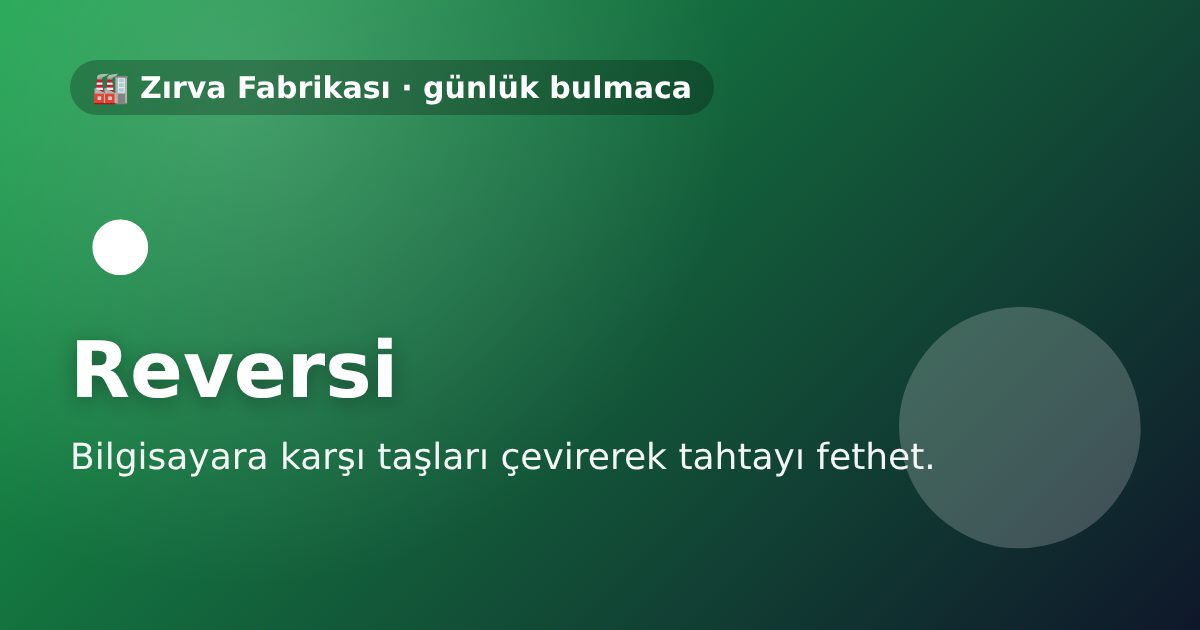
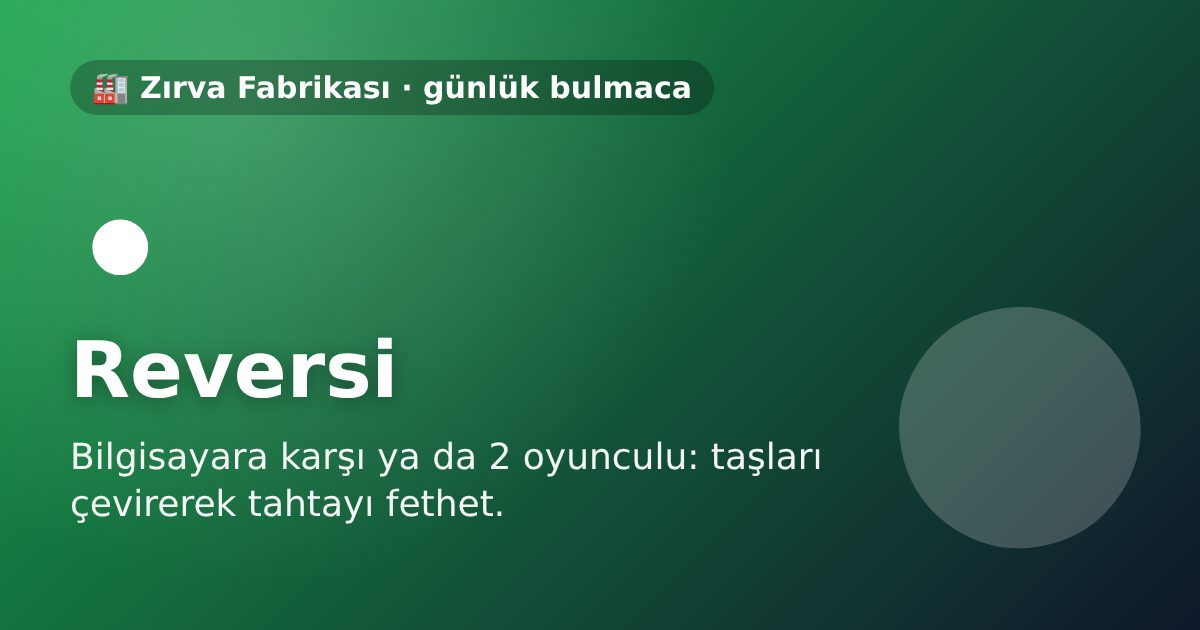
v6.5: Noktaci, Uzay Savunmasi, 2 oyunculu Dort Gelsin ve Reversi, arka plan muzigi
Claude-Session: https://claude.ai/code/session_015mUfjF34r2QB4MxpZHN5sk

Changed region(s): [[0.3083, 0.6937, 0.7708, 0.754], [0.0617, 0.7841, 0.4317, 0.8444]]

diff --git a/static/puzzles7.js b/static/puzzles7.js
@@ -1,0 +1,59 @@
+/* Zırva Bulmaca v6.5: Noktacı (Pac-Man tarzı), Uzay Savunması (Space Invaders tarzı) */
+(function () {
+/* ===== Noktacı ===== */
+const MAZE = ["###############", "#o.....#.....o#", "#.##.#.#.#.##.#", "#.............#", "#.##.#####.##.#", "#....#...#....#", "#.##.#.#.#.##.#", "#.............#", "#.##.#####.##.#", "#....#...#....#", "#.##.#.#.#.##.#", "#o.....P.....o#", "###############"];
+function gNoktaci(root, ctx, A) {
+  const { el, sfx, showResult, shareHead, shareTail, fmtTime } = A; const H = MAZE.length, W = MAZE[0].length, S = 28; const cv = el("canvas", "pm-cv"); cv.width = W * S; cv.height = H * S; const info = el("div", "ka-info"), pad = el("div", "tt-pad"); root.append(info, cv, pad); const x = cv.getContext("2d");
+  const g = MAZE.map(r => r.split("").map(c => c === "#" ? 1 : c === "." ? 2 : c === "o" ? 3 : 0)); let dots = g.flat().filter(v => v >= 2).length; const total = dots;
+  const mk = (r, c, color) => ({ r, c, pr: r, pc: c, t0: performance.now(), d: [0, 0], color, fr: 0, home: [r, c] });
+  const pl = mk(11, 7, "#facc15"), gh = [mk(5, 6, "#ef4444"), mk(5, 7, "#f472b6"), mk(5, 8, "#22d3ee")]; let want = [0, 0], lives = 3, score = 0, over = false, secs = 0, power = 0, inv = 0; const PT = 150;
+  const open = (r, c) => g[r] && g[r][c] !== 1 && g[r][c] !== undefined; const DIRS = [[0, 1], [0, -1], [1, 0], [-1, 0]];
+  const mv = (e, d) => { e.pr = e.r; e.pc = e.c; e.r += d[0]; e.c += d[1]; e.t0 = performance.now(); };
+  function stepPl() { if (over) return; if (want[0] || want[1]) { if (open(pl.r + want[0], pl.c + want[1])) pl.d = want; } if ((pl.d[0] || pl.d[1]) && open(pl.r + pl.d[0], pl.c + pl.d[1])) mv(pl, pl.d); else { pl.pr = pl.r; pl.pc = pl.c; }
+    const v = g[pl.r][pl.c]; if (v >= 2) { g[pl.r][pl.c] = 0; dots--; score += v === 3 ? 50 : 10; if (v === 3) { power = 7000; gh.forEach(e => e.fr = 1); sfx("good"); } else sfx("tap"); if (!dots) return end(true); } collide(); }
+  function stepGh(e) { if (over) return; const opts = DIRS.filter(d => open(e.r + d[0], e.c + d[1]) && !(d[0] === -e.d[0] && d[1] === -e.d[1])); const all = opts.length ? opts : DIRS.filter(d => open(e.r + d[0], e.c + d[1])); let d;
+    if (e.fr) d = all.slice().sort((a, b) => dist(e, b) - dist(e, a))[ctx.rnd() < .6 ? 0 : Math.floor(ctx.rnd() * all.length)]; else d = ctx.rnd() < .62 ? all.slice().sort((a, b) => dist(e, a) - dist(e, b))[0] : all[Math.floor(ctx.rnd() * all.length)]; e.d = d; mv(e, d); collide(); }
+  const dist = (e, d) => Math.abs(e.r + d[0] - pl.r) + Math.abs(e.c + d[1] - pl.c);
+  function collide() { gh.forEach(e => { if (e.r === pl.r && e.c === pl.c || (e.pr === pl.r && e.pc === pl.c && e.r === pl.pr && e.c === pl.pc)) { if (e.fr) { score += 200; sfx("good"); e.r = e.pr = 5; e.c = e.pc = 7; e.fr = 0; e.d = [0, 0]; } else if (!inv) { lives--; sfx("bad"); inv = 1800; if (lives <= 0) return end(false); pl.r = pl.pr = 11; pl.c = pl.pc = 7; pl.d = [0, 0]; want = [0, 0]; gh.forEach((q, i) => { q.r = q.pr = 5; q.c = q.pc = 6 + i; q.d = [0, 0]; }); } } }); }
+  const draw = now => { x.fillStyle = "#050816"; x.fillRect(0, 0, W * S, H * S); for (let r = 0; r < H; r++) for (let c = 0; c < W; c++) { const v = g[r][c]; if (v === 1) { x.fillStyle = "#1e3a8a"; x.beginPath(); x.roundRect(c * S + 2, r * S + 2, S - 4, S - 4, 6); x.fill(); x.fillStyle = "#3b82f6"; x.fillRect(c * S + 6, r * S + 6, S - 12, S - 12); } else if (v === 2) { x.fillStyle = "#fde68a"; x.beginPath(); x.arc(c * S + S / 2, r * S + S / 2, 3, 0, 7); x.fill(); } else if (v === 3) { x.fillStyle = "#fff"; x.beginPath(); x.arc(c * S + S / 2, r * S + S / 2, 7 + Math.sin(now / 150) * 1.5, 0, 7); x.fill(); } }
+    x.font = (S - 4) + "px serif"; x.textAlign = "center"; x.textBaseline = "middle"; const P = (e, per) => { const f = Math.min(1, (now - e.t0) / per); return [(e.pc + (e.c - e.pc) * f) * S + S / 2, (e.pr + (e.r - e.pr) * f) * S + S / 2]; };
+    gh.forEach(e => { const p = P(e, e.fr ? 280 : 210); x.globalAlpha = e.fr && power < 2000 && Math.floor(now / 150) % 2 ? .4 : 1; x.fillText(e.fr ? "😱" : "👻", p[0], p[1]); x.globalAlpha = 1; });
+    if (!inv || Math.floor(now / 120) % 2) { const p = P(pl, PT); x.fillText("🟡", p[0], p[1]); }
+    info.innerHTML = `<span>❤ ${lives}</span><span>Puan: ${score}</span><span>Kalan: ${dots}</span><span>⏱ ${fmtTime(Math.round(secs))}</span>`; };
+  let last = performance.now(), ap = 0, ag = 0, raf; const loop = now => { if (over) return; const dt = Math.min(80, now - last); last = now; secs += dt / 1000; inv = Math.max(0, inv - dt); if (power > 0) { power -= dt; if (power <= 0) gh.forEach(e => e.fr = 0); } ap += dt; ag += dt; while (ap >= PT) { ap -= PT; stepPl(); } const gp = power > 0 ? 260 : 200; while (ag >= gp) { ag -= gp; gh.forEach(stepGh); } draw(now); raf = requestAnimationFrame(loop); }; raf = requestAnimationFrame(loop);
+  const KM = { ArrowUp: [-1, 0], ArrowDown: [1, 0], ArrowLeft: [0, -1], ArrowRight: [0, 1], w: [-1, 0], s: [1, 0], a: [0, -1], d: [0, 1] }; const kd = e => { const k = KM[e.key.length === 1 ? e.key.toLowerCase() : e.key]; if (k) { e.preventDefault(); want = k; } }; document.addEventListener("keydown", kd);
+  [["◀", [0, -1]], ["▲", [-1, 0]], ["▼", [1, 0]], ["▶", [0, 1]]].forEach(([t, d]) => { const b = el("button", "btn tt-b", t); b.onpointerdown = e => { e.preventDefault(); want = d; }; pad.appendChild(b); });
+  let sx, sy; cv.style.touchAction = "none"; cv.addEventListener("pointerdown", e => { sx = e.clientX; sy = e.clientY; }); cv.addEventListener("pointerup", e => { if (sx == null) return; const dx = e.clientX - sx, dy = e.clientY - sy; sx = null; if (Math.max(Math.abs(dx), Math.abs(dy)) < 16) return; want = Math.abs(dx) > Math.abs(dy) ? [0, Math.sign(dx)] : [Math.sign(dy), 0]; });
+  ctx.cleanup = () => { cancelAnimationFrame(raf); document.removeEventListener("keydown", kd); };
+  function end(win) { if (over) return; over = true; const stars = win ? (lives === 3 && secs < 110 ? 5 : lives >= 2 ? 4 : 3) : dots < total / 2 ? 2 : 1; showResult(ctx, { win, stars, title: win ? "Tüm noktalar yendi!" : "Hayaletler yakaladı", text: `${total - dots}/${total} nokta, ${score} puan.`, share: `${shareHead(ctx, win ? fmtTime(Math.round(secs)) : (total - dots) + "/" + total)}\n🟡 Noktacı · ${score} puan${shareTail(ctx)}` }); }
+  ctx.auto = () => { dots = 0; end(true); };
+}
+
+/* ===== Uzay Savunması ===== */
+function gUzay(root, ctx, A) {
+  const { el, ri, sfx, showResult, shareHead, shareTail } = A; const W = 360, Ht = 460; const cv = el("canvas", "sp-cv"); cv.width = W; cv.height = Ht; const info = el("div", "ka-info"), pad = el("div", "tt-pad"); root.append(info, cv, pad); const x = cv.getContext("2d");
+  let inv = []; for (let r = 0; r < 5; r++) for (let c = 0; c < 8; c++) inv.push({ r, c, x: 30 + c * 38, y: 50 + r * 32, alive: true }); let dir = 1, speed = .35, drop = 0;
+  let sh = []; for (let b = 0; b < 3; b++) for (let i = 0; i < 6; i++) for (let j = 0; j < 4; j++) sh.push({ x: 40 + b * 110 + i * 8, y: 360 + j * 8, hp: 2 });
+  let px = W / 2, lives = 3, score = 0, bullets = [], ebul = [], over = false, cd = 0, ecd = 900, left = false, right = false, fire = false, flash = 0; const EM = ["👽", "👾", "👾", "🛸", "🛸"];
+  function step(dt) { if (over) return; cd -= dt; ecd -= dt; flash = Math.max(0, flash - dt); if (left) px -= .3 * dt; if (right) px += .3 * dt; px = Math.max(18, Math.min(W - 18, px)); if (fire && cd <= 0) { bullets.push({ x: px, y: Ht - 50 }); cd = 380; sfx("tap"); }
+    const alive = inv.filter(i => i.alive); const sp = speed * (1 + (40 - alive.length) / 14); let edge = false; alive.forEach(i => { i.x += dir * sp * dt / 16; if (i.x < 14 || i.x > W - 14) edge = true; }); if (edge) { dir = -dir; alive.forEach(i => { i.y += 14; i.x += dir * 3; }); }
+    if (ecd <= 0 && alive.length) { ecd = 600 + ctx.rnd() * 700; const cols = {}; alive.forEach(i => { if (!cols[i.c] || i.y > cols[i.c].y) cols[i.c] = i; }); const ks = Object.values(cols); const s = ks[Math.floor(ctx.rnd() * ks.length)]; ebul.push({ x: s.x, y: s.y + 10 }); }
+    bullets.forEach(b => b.y -= .5 * dt); ebul.forEach(b => b.y += .22 * dt); const hitSh = (b, o) => { const k = sh.find(s => s.hp > 0 && b.x > s.x - 1 && b.x < s.x + 9 && b.y > s.y - 1 && b.y < s.y + 9); if (k) { k.hp--; return true; } return false; };
+    bullets = bullets.filter(b => { if (b.y < 0 || hitSh(b)) return false; const t = alive.find(i => i.alive && Math.abs(i.x - b.x) < 14 && Math.abs(i.y - b.y) < 12); if (t) { t.alive = false; score += 10 * (5 - t.r); sfx("good"); return false; } return true; });
+    ebul = ebul.filter(b => { if (b.y > Ht || hitSh(b)) return false; if (Math.abs(b.x - px) < 16 && b.y > Ht - 42 && b.y < Ht - 14) { lives--; flash = 400; sfx("bad"); if (lives <= 0) end(false); return false; } return true; });
+    if (!inv.some(i => i.alive)) return end(true); if (inv.some(i => i.alive && i.y > Ht - 80)) return end(false); draw(); }
+  function draw() { x.fillStyle = "#050816"; x.fillRect(0, 0, W, Ht); for (let i = 0; i < 30; i++) { x.fillStyle = "#ffffff55"; x.fillRect((i * 97) % W, (i * 53 + Date.now() / 40) % Ht, 1.5, 1.5); } x.font = "22px serif"; x.textAlign = "center"; x.textBaseline = "middle";
+    sh.forEach(s => { if (s.hp > 0) { x.fillStyle = s.hp > 1 ? "#34d399" : "#15803d"; x.fillRect(s.x, s.y, 8, 8); } }); inv.forEach(i => i.alive && x.fillText(EM[i.r], i.x, i.y));
+    bullets.forEach(b => { x.fillStyle = "#fde047"; x.fillRect(b.x - 1.5, b.y - 8, 3, 10); }); ebul.forEach(b => { x.fillStyle = "#f87171"; x.fillRect(b.x - 2, b.y, 4, 10); });
+    x.globalAlpha = flash ? .4 : 1; x.font = "30px serif"; x.fillText("🚀", px, Ht - 28); x.globalAlpha = 1;
+    info.innerHTML = `<span>❤ ${lives}</span><span>Puan: ${score}</span><span>👾 ${inv.filter(i => i.alive).length}</span>`; }
+  const bind = (b, on, off) => { b.onpointerdown = e => { e.preventDefault(); on(); }; ["pointerup", "pointerleave", "pointercancel"].forEach(ev => b.addEventListener(ev, off)); };
+  const bl = el("button", "btn tt-b", "◀"), bf = el("button", "btn tt-b", "🔫 Ateş"), br = el("button", "btn tt-b", "▶"); bind(bl, () => left = true, () => left = false); bind(br, () => right = true, () => right = false); bind(bf, () => fire = true, () => fire = false); pad.append(bl, bf, br);
+  const kd = e => { if (e.key === "ArrowLeft" || e.key === "a") { left = true; e.preventDefault(); } else if (e.key === "ArrowRight" || e.key === "d") { right = true; e.preventDefault(); } else if (e.key === " ") { fire = true; e.preventDefault(); } }, ku = e => { if (e.key === "ArrowLeft" || e.key === "a") left = false; else if (e.key === "ArrowRight" || e.key === "d") right = false; else if (e.key === " ") fire = false; };
+  document.addEventListener("keydown", kd); document.addEventListener("keyup", ku); cv.style.touchAction = "none"; const mp = e => { const r = cv.getBoundingClientRect(); px = (e.clientX - r.left) * W / r.width; }; cv.addEventListener("pointermove", e => { if (e.buttons || e.pointerType === "touch") mp(e); }); cv.addEventListener("pointerdown", e => { mp(e); fire = true; }); ["pointerup", "pointerleave"].forEach(ev => cv.addEventListener(ev, () => fire = false));
+  let last = performance.now(), raf; const loop = now => { if (over) return; step(Math.min(50, now - last)); last = now; raf = requestAnimationFrame(loop); }; raf = requestAnimationFrame(loop); ctx.cleanup = () => { cancelAnimationFrame(raf); document.removeEventListener("keydown", kd); document.removeEventListener("keyup", ku); };
+  function end(win) { if (over) return; over = true; draw(); const stars = win ? (lives === 3 ? 5 : lives === 2 ? 4 : 3) : inv.filter(i => !i.alive).length >= 25 ? 2 : 1; showResult(ctx, { win, stars, title: win ? "Dünya kurtuldu!" : "İstila başarılı…", text: `${inv.filter(i => !i.alive).length}/40 istilacı vuruldu, ${score} puan.`, share: `${shareHead(ctx, win ? score + " puan" : "kaybetti")}\n🚀 Uzay Savunması${shareTail(ctx)}` }); }
+  ctx.auto = () => { inv.forEach(i => i.alive = false); end(true); }; draw();
+}
+window.PZX = Object.assign(window.PZX || {}, { noktaci: gNoktaci, uzay: gUzay });
+})();

diff --git a/static/puzzles4.js b/static/puzzles4.js
@@ -119,6 +119,10 @@ function gFlood(root, ctx, A) {
 
 /* ===== Dört Gelsin (Connect 4, bilgisayara karşı) ===== */
 function gDort(root, ctx, A) {
+  window.PZ_DATA.chooser(root, A, "Dört Gelsin modu", [["1", "🤖 Bilgisayara karşı", "Tek kişilik"], ["2", "👥 2 Oyuncu", "Aynı cihazda sırayla"]], m => dortRun(root, ctx, A, m === "2"));
+  ctx.auto = () => { if (!ctx.__a) dortRun(root, ctx, A, false); ctx.__a(); };
+}
+function dortRun(root, ctx, A, two) {
   const { el, sfx, showResult, shareHead, shareTail, sleep } = A; const R = 6, C = 7; let b = Array(R * C).fill(0), turn = 1, over = false, moves = 0, busy = false;
   const info = el("div", "ka-info"), board = el("div", "c4-grid"); root.append(info, board);
   const LINES = []; for (let r = 0; r < R; r++) for (let c = 0; c < C; c++) [[0, 1], [1, 0], [1, 1], [1, -1]].forEach(([dr, dc]) => { const e = []; for (let k = 0; k < 4; k++) { const y = r + dr * k, x = c + dc * k; if (y < 0 || y >= R || x < 0 || x >= C) return; e.push(y * C + x); } LINES.push(e); });
@@ -126,11 +130,11 @@ function gDort(root, ctx, A) {
   const score = bd => { let s = 0; LINES.forEach(l => { const a = l.filter(i => bd[i] === 2).length, h = l.filter(i => bd[i] === 1).length; if (a && h) return; if (a) s += [0, 1, 4, 30, 1000][a]; if (h) s -= [0, 1, 5, 40, 1000][h]; }); for (let r = 0; r < R; r++) if (bd[r * C + 3] === 2) s += 3; return s; };
   function mm(bd, d, al, be, mx) { if (win(bd, 2)) return 100000 + d; if (win(bd, 1)) return -100000 - d; if (!d || bd.every(Boolean)) return score(bd); let best = mx ? -1e9 : 1e9; for (const c of [3, 2, 4, 1, 5, 0, 6]) { const i = drop(bd, c); if (i < 0) continue; bd[i] = mx ? 2 : 1; const v = mm(bd, d - 1, al, be, !mx); bd[i] = 0; if (mx) { best = Math.max(best, v); al = Math.max(al, v); } else { best = Math.min(best, v); be = Math.min(be, v); } if (be <= al) break; } return best; }
   function ai() { let bc = [], bv = -1e9; for (const c of [0, 1, 2, 3, 4, 5, 6]) { const i = drop(b, c); if (i < 0) continue; b[i] = 2; const v = mm(b, 3, -1e9, 1e9, false); b[i] = 0; if (v > bv) { bv = v; bc = [c]; } else if (v === bv) bc.push(c); } if (ctx.rnd() < .12) { const ok = [0, 1, 2, 3, 4, 5, 6].filter(c => drop(b, c) >= 0); return ok[Math.floor(ctx.rnd() * ok.length)]; } return bc[Math.floor(ctx.rnd() * bc.length)]; }
-  function paint(wl) { info.innerHTML = `<span>🔴 Sen · 🟡 Bilgisayar</span><span>Hamle: ${moves}</span>`; board.innerHTML = ""; for (let c = 0; c < C; c++) { const col = el("button", "c4-col"); for (let r = 0; r < R; r++) { const v = b[r * C + c]; col.appendChild(el("div", "c4-d" + (v === 1 ? " p" : v === 2 ? " a" : "") + (wl && wl.includes(r * C + c) ? " w" : ""))); } col.onclick = () => play(c); board.appendChild(col); } }
-  async function play(c) { if (over || busy || turn !== 1) return; const i = drop(b, c); if (i < 0) return; busy = true; b[i] = 1; moves++; sfx("tap"); let w = win(b, 1); paint(w); if (w) return end(1, w); if (b.every(Boolean)) return end(0);
+  function paint(wl) { info.innerHTML = two ? `<span>Sıra: ${turn === 1 ? "🔴 Kırmızı" : "🟡 Sarı"}</span><span>Hamle: ${moves}</span>` : `<span>🔴 Sen · 🟡 Bilgisayar</span><span>Hamle: ${moves}</span>`; board.innerHTML = ""; for (let c = 0; c < C; c++) { const col = el("button", "c4-col"); for (let r = 0; r < R; r++) { const v = b[r * C + c]; col.appendChild(el("div", "c4-d" + (v === 1 ? " p" : v === 2 ? " a" : "") + (wl && wl.includes(r * C + c) ? " w" : ""))); } col.onclick = () => play(c); board.appendChild(col); } }
+  async function play(c) { if (over || busy || (!two && turn !== 1)) return; const i = drop(b, c); if (i < 0) return; busy = true; const me = turn; b[i] = me; moves++; sfx("tap"); let w = win(b, me); paint(w); if (w) return end(me, w); if (b.every(Boolean)) return end(0); if (two) { turn = 3 - me; busy = false; paint(); return; }
     turn = 2; await sleep(450); const ac = ai(); b[drop(b, ac)] = 2; w = win(b, 2); sfx("tap"); paint(w); if (w) return end(2, w); if (b.every(Boolean)) return end(0); turn = 1; busy = false; }
-  function end(r, w) { over = true; const stars = r === 1 ? (moves <= 12 ? 5 : moves <= 16 ? 4 : 3) : r === 0 ? 2 : 1; showResult(ctx, { win: r === 1, stars, title: r === 1 ? "Dördü sen yaptın!" : r === 0 ? "Berabere" : "Bilgisayar kazandı", text: `${moves} hamle oynadın.`, share: `${shareHead(ctx, r === 1 ? "kazandı" : r === 0 ? "berabere" : "kaybetti")}\n🔴🟡 Dört Gelsin${shareTail(ctx)}` }); }
-  ctx.auto = () => end(1); paint();
+  function end(r, w) { over = true; if (two) { showResult(ctx, { win: true, stars: 3, title: r === 0 ? "Berabere" : r === 1 ? "🔴 Kırmızı kazandı!" : "🟡 Sarı kazandı!", text: `${moves} hamlede bitti.`, share: `${shareHead(ctx, r === 1 ? "Kırmızı" : r === 2 ? "Sarı" : "berabere")}\n🔴🟡 Dört Gelsin 2 Oyuncu${shareTail(ctx)}` }); return; } const stars = r === 1 ? (moves <= 12 ? 5 : moves <= 16 ? 4 : 3) : r === 0 ? 2 : 1; showResult(ctx, { win: r === 1, stars, title: r === 1 ? "Dördü sen yaptın!" : r === 0 ? "Berabere" : "Bilgisayar kazandı", text: `${moves} hamle oynadın.`, share: `${shareHead(ctx, r === 1 ? "kazandı" : r === 0 ? "berabere" : "kaybetti")}\n🔴🟡 Dört Gelsin${shareTail(ctx)}` }); }
+  ctx.__a = () => end(1); paint();
 }
 
 /* ===== Köstebek Avı ===== */

diff --git a/static/puzzles5.js b/static/puzzles5.js
@@ -81,18 +81,22 @@ function gLabirent(root, ctx, A) {
 
 /* ===== Reversi (bilgisayara karşı) ===== */
 function gReversi(root, ctx, A) {
+  CH()(root, A, "Reversi modu", [["1", "🤖 Bilgisayara karşı", "Tek kişilik"], ["2", "👥 2 Oyuncu", "Aynı cihazda sırayla"]], m => reversiRun(root, ctx, A, m === "2"));
+  ctx.auto = () => { if (!ctx.__a) reversiRun(root, ctx, A, false); ctx.__a(); };
+}
+function reversiRun(root, ctx, A, two) {
   const { el, sfx, showResult, shareHead, shareTail, sleep } = A; const N = 8; let b = Array(64).fill(0); b[27] = b[36] = 2; b[28] = b[35] = 1; let turn = 1, over = false, busy = false;
   const info = el("div", "ka-info"), board = el("div", "rv-grid"); root.append(info, board); const D = [[-1, -1], [-1, 0], [-1, 1], [0, -1], [0, 1], [1, -1], [1, 0], [1, 1]];
   const flips = (bd, i, p) => { const r = Math.floor(i / N), c = i % N, o = []; if (bd[i]) return o; D.forEach(([a, d]) => { const t = []; let y = r + a, x = c + d; while (y >= 0 && y < N && x >= 0 && x < N && bd[y * N + x] === 3 - p) { t.push(y * N + x); y += a; x += d; } if (t.length && y >= 0 && y < N && x >= 0 && x < N && bd[y * N + x] === p) o.push(...t); }); return o; };
   const moves = (bd, p) => { const o = []; for (let i = 0; i < 64; i++) { const f = flips(bd, i, p); if (f.length) o.push([i, f]); } return o; };
   const W = i => { const r = Math.floor(i / N), c = i % N; const e = k => k === 0 || k === 7, n = k => k === 1 || k === 6; if (e(r) && e(c)) return 25; if ((n(r) && e(c)) || (e(r) && n(c))) return -8; if (n(r) && n(c)) return -12; if (e(r) || e(c)) return 4; return 1; };
   const cnt = p => b.filter(v => v === p).length;
-  function paint() { const mv = turn === 1 && !busy ? moves(b, 1).map(x => x[0]) : []; info.innerHTML = `<span>⚫ Sen: <b>${cnt(1)}</b></span><span>⚪ Bilgisayar: <b>${cnt(2)}</b></span>`; board.innerHTML = ""; b.forEach((v, i) => { const c = el("button", "rv-c"); if (v) c.appendChild(el("div", "rv-d " + (v === 1 ? "bk" : "wh"))); else if (mv.includes(i)) c.appendChild(el("div", "rv-h")); c.onclick = () => play(i); board.appendChild(c); }); }
+  function paint() { const mv = (two || turn === 1) && !busy ? moves(b, turn).map(x => x[0]) : []; info.innerHTML = two ? `<span>⚫ Siyah: <b>${cnt(1)}</b></span><span>Sıra: ${turn === 1 ? "⚫" : "⚪"}</span><span>⚪ Beyaz: <b>${cnt(2)}</b></span>` : `<span>⚫ Sen: <b>${cnt(1)}</b></span><span>⚪ Bilgisayar: <b>${cnt(2)}</b></span>`; board.innerHTML = ""; b.forEach((v, i) => { const c = el("button", "rv-c"); if (v) c.appendChild(el("div", "rv-d " + (v === 1 ? "bk" : "wh"))); else if (mv.includes(i)) c.appendChild(el("div", "rv-h")); c.onclick = () => play(i); board.appendChild(c); }); }
   const put = (i, f, p) => { b[i] = p; f.forEach(k => b[k] = p); };
-  async function play(i) { if (over || busy || turn !== 1) return; const f = flips(b, i, 1); if (!f.length) return; busy = true; put(i, f, 1); sfx("tap"); paint(); await sleep(350); await aiTurns(); busy = false; paint(); }
+  async function play(i) { if (two) { if (over) return; const f2 = flips(b, i, turn); if (!f2.length) return; put(i, f2, turn); sfx("tap"); const nx = 3 - turn; if (moves(b, nx).length) turn = nx; else if (!moves(b, turn).length) { paint(); return end(); } paint(); return; } if (over || busy || turn !== 1) return; const f = flips(b, i, 1); if (!f.length) return; busy = true; put(i, f, 1); sfx("tap"); paint(); await sleep(350); await aiTurns(); busy = false; paint(); }
   async function aiTurns() { for (;;) { if (!moves(b, 1).length && !moves(b, 2).length) return end(); const ms = moves(b, 2); if (!ms.length) { return; } let best = null, bv = -1e9; ms.forEach(([i, f]) => { const v = W(i) * 3 + f.length + ctx.rnd() * 3; if (v > bv) { bv = v; best = [i, f]; } }); await sleep(450); put(best[0], best[1], 2); sfx("tap"); paint(); if (moves(b, 1).length) return; if (!moves(b, 2).length) return end(); await sleep(350); } }
-  function end() { if (over) return; over = true; const a = cnt(1), c = cnt(2), win = a > c; showResult(ctx, { win, stars: win ? (a - c >= 24 ? 5 : a - c >= 12 ? 4 : 3) : a === c ? 2 : 1, title: win ? "Tahtayı fethettin!" : a === c ? "Berabere" : "Bilgisayar kazandı", text: `⚫ ${a} - ⚪ ${c}`, share: `${shareHead(ctx, a + "-" + c)}\n⚫⚪ Reversi${shareTail(ctx)}` }); }
-  ctx.auto = () => { for (let i = 0; i < 64; i++) b[i] = i < 40 ? 1 : 2; end(); }; paint();
+  function end() { if (over) return; over = true; const a = cnt(1), c = cnt(2), win = a > c; if (two) { showResult(ctx, { win: true, stars: 3, title: a === c ? "Berabere" : a > c ? "⚫ Siyah kazandı!" : "⚪ Beyaz kazandı!", text: `⚫ ${a} - ⚪ ${c}`, share: `${shareHead(ctx, a + "-" + c)}\n⚫⚪ Reversi 2 Oyuncu${shareTail(ctx)}` }); return; } showResult(ctx, { win, stars: win ? (a - c >= 24 ? 5 : a - c >= 12 ? 4 : 3) : a === c ? 2 : 1, title: win ? "Tahtayı fethettin!" : a === c ? "Berabere" : "Bilgisayar kazandı", text: `⚫ ${a} - ⚪ ${c}`, share: `${shareHead(ctx, a + "-" + c)}\n⚫⚪ Reversi${shareTail(ctx)}` }); }
+  ctx.__a = () => { for (let i = 0; i < 64; i++) b[i] = i < 40 ? 1 : 2; end(); }; paint();
 }
 
 /* ===== Blackjack 21 ===== */

diff --git a/templates/puzzle.html b/templates/puzzle.html
@@ -10,6 +10,7 @@
   <div class="pz-bar">
     <div class="seg2"><button data-mode="daily" class="on">📅 Günlük</button><button data-mode="practice">🎲 Pratik</button></div>
     <button class="icon-btn" id="snd" aria-label="Ses">🔊</button>
+    <button class="icon-btn" id="mus" aria-label="Müzik" title="Arka plan müziği">🎶</button>
     <a class="icon-btn" href="/bulmaca" style="text-decoration:none">🏠</a>
   </div>
   <details class="rules"><summary>Nasıl oynanır?</summary><ul>{% for r in g.rules %}<li>{{ r }}</li>{% endfor %}</ul></details>
@@ -34,6 +35,7 @@
 <script src="/static/puzzles4.js"></script>
 <script src="/static/puzzles5.js"></script>
 <script src="/static/puzzles6.js"></script>
+<script src="/static/puzzles7.js"></script>
 <script>window.PZ_META={{ meta|tojson }};window.PZ_FEATURED={{ featured|tojson }};PZ.initPuzzle({{ slug|tojson }});
 (function(){try{var p=JSON.parse(localStorage.getItem('zf_pz2')||'{}'),k=PZ.todayKey(),d=(p.days||{})[k]||{};document.querySelectorAll('[data-game]').forEach(function(a){if(d[a.dataset.game]&&d[a.dataset.game].done)a.classList.add('solved')})}catch(e){}})();</script>
 {% endblock %}

diff --git a/static/puzzles.js b/static/puzzles.js
@@ -421,6 +421,9 @@ function initPuzzle(slug) {
   CUR.slug = slug; CUR.mode = "daily";
   $$("[data-mode]").forEach(b => b.onclick = () => switchMode(b.dataset.mode));
   const snd = $("#snd"); if (snd) { const set = () => snd.textContent = soundOn() ? "🔊" : "🔇"; set(); snd.onclick = () => { LS.set("zf_sound", !soundOn()); set(); sfx("good"); }; }
+  const mus = $("#mus"); if (mus) { let tm = null; const on = () => LS.get("zf_music", false); const setM = () => { mus.textContent = on() ? "🎵" : "🎶"; mus.style.opacity = on() ? 1 : .55; };
+    const play = () => { clearInterval(tm); if (!on()) return; const sc = [0, 2, 4, 7, 9, 12, 14, 16], root = [220, 196, 247, 175][hash(slug) % 4]; let i = 0; tm = setInterval(() => { if (!on() || !soundOn()) return; const k = sc[(Math.random() * sc.length) | 0]; tone(root * 2 ** (k / 12), .55, "sine", .045); if (i++ % 4 === 0) tone(root / 2, 1, "triangle", .05); }, 430); };
+    mus.onclick = () => { LS.set("zf_music", !on()); setM(); play(); sfx("tap"); }; setM(); play(); addEventListener("pagehide", () => clearInterval(tm)); }
   start();
 }
 

diff --git a/static/puzzles.css b/static/puzzles.css
@@ -233,3 +233,5 @@ details.rules summary{cursor:pointer;font-weight:700}details.rules ul{margin:8px
 .mc-store{width:clamp(44px,12vw,78px);border-radius:40px;background:radial-gradient(circle at 35% 30%,#a16207,#451a03);color:#fff;display:flex;align-items:center;justify-content:center;font-weight:900;font-size:1.5rem}.mc-store.me{outline:3px solid #34d39988}
 .zm-cv,.bm-cv,.tk-cv{display:block;width:100%;max-width:420px;height:auto;margin:6px auto;border-radius:14px;box-shadow:0 8px 30px #0006}.bm-cv{max-width:520px}.tk-cv{max-width:520px}
 @media(min-width:760px){.zm-cv{max-width:480px}.bm-cv{max-width:600px}.tk-cv{max-width:600px}}
+.pm-cv,.sp-cv{display:block;width:100%;max-width:420px;height:auto;margin:6px auto;border-radius:14px;box-shadow:0 8px 30px #0006}.sp-cv{max-width:380px}
+@media(min-width:760px){.pm-cv{max-width:560px}.sp-cv{max-width:420px}}

diff --git a/puzzledata.py b/puzzledata.py
@@ -47,7 +47,7 @@ _N2 = [
  ("hanoi","Hanoi Kulesi","🗼",("#f59e0b","#ef4444"),"mantik","4 diski ilk çubuktan üçüncüye taşı.",["Bir seferde tek disk taşınır.","Büyük disk küçüğün üstüne konamaz.","En az hamle 15."]),
  ("nonogram","Nonogram","🖼",("#8b5cf6","#ec4899"),"mantik","Sayı ipuçlarına göre gizli resmi boya.",["Satır ve sütun başındaki sayılar, art arda dolu karelerin uzunluğunu gösterir.","Kareye dokun: dolu → ✕ → boş.","Tüm ipuçları sağlanınca çözülür."]),
  ("flood","Boya Taşması","🌊",("#06b6d4","#a855f7"),"mantik","Sol üstten boyayarak tahtayı tek renk yap.",["Alttaki renklerden birini seç, sol üst bölge o renge dönüşür.","Komşu aynı renkli kareler katılır.","20 hamlede tüm tahtayı tek renk yap."]),
- ("dortgelsin","Dört Gelsin","🔴",("#2563eb","#facc15"),"mantik","Bilgisayara karşı yan yana 4 taşı diz.",["Bir sütuna dokun, taş aşağı düşer.","Yatay, dikey veya çapraz 4 taş dizersen kazanırsın.","Bilgisayar da seni engellemeye çalışır."]),
+ ("dortgelsin","Dört Gelsin","🔴",("#2563eb","#facc15"),"mantik","Bilgisayara karşı ya da iki kişi yan yana 4 taşı diz.",["Bir sütuna dokun, taş aşağı düşer.","Yatay, dikey veya çapraz 4 taş dizersen kazanırsın.","Bilgisayar da seni engellemeye çalışır. 2 Oyuncu modunda arkadaşınla sırayla oynarsın."]),
  ("kostebek","Köstebek Avı","🐹",("#84cc16","#f59e0b"),"refleks","30 saniyede köstebeklere vur, bombalardan kaç.",["🐹 +1, ⭐ +3, 💣 −3 puan.","Delikten çıkanlara hızlıca dokun.","20 puan yaparsan kazanırsın."]),
  ("yilan","Yılan","🐍",("#16a34a","#14b8a6"),"refleks","12 elma ye, duvara ve kendine çarpma.",["Ok tuşları veya kaydırma ile yön ver.","Her elma seni uzatır.","12 elmaya ulaşırsan kazanırsın."]),
  ("susirala","Su Sıralama","🧪",("#3b82f6","#34d399"),"mantik","Renkli suları aynı renkler bir tüpte olacak şekilde sırala.",["Bir tüpe, sonra hedef tüpe dokun.","Üstteki renk aynı renge ya da boş tüpe dökülür.","Her tüp tek renk olunca biter. Geri al düğmesi var."]),
@@ -60,7 +60,7 @@ GAMES["minisudoku"] = dict(title="Mini Sudoku", emoji="🔢", grad=("#06b6d4","#
 _N3 = [
  ("tetris","Blok Düşür","🧱",("#22d3ee","#a855f7"),"refleks","Klasik düşen bloklar. 10 satır temizle.",["◀ ▶ ile kaydır, ⟳ ile döndür, ▼ hızlandır, ⏬ ile direkt bırak.","Klavyede ok tuşları ve boşluk da çalışır.","Satır doldurunca silinir, hız artar.","10 satır temizlersen kazanırsın."]),
  ("labirent","Labirent","🧭",("#8b5cf6","#0ea5e9"),"mantik","Çıkışa ulaş, yolda 3 yıldızı topla.",["Ok tuşları, kaydırma veya ekran düğmeleriyle ilerle.","Küçük, orta veya büyük labirent seçebilirsin.","Süre ve yıldız sayısı puanını belirler."]),
- ("reversi","Reversi","⚫",("#16a34a","#0f172a"),"mantik","Bilgisayara karşı taşları çevirerek tahtayı fethet.",["Siyah sensin. Taşını rakibin taşlarını kıstıracak yere koy.","Kıstırılan taşlar senin rengine döner.","Nokta ile gösterilen yerlere oynayabilirsin.","Bitince çok taşı olan kazanır."]),
+ ("reversi","Reversi","⚫",("#16a34a","#0f172a"),"mantik","Bilgisayara karşı ya da 2 oyunculu: taşları çevirerek tahtayı fethet.",["Siyah sensin. Taşını rakibin taşlarını kıstıracak yere koy.","Kıstırılan taşlar senin rengine döner.","Nokta ile gösterilen yerlere oynayabilirsin.","Bitince çok taşı olan kazanır."]),
  ("blackjack","Blackjack 21","🃏",("#b91c1c","#0f766e"),"mantik","Kasaya karşı 21'e en yakın eli yap. 5 el oynanır.",["Çek ile kart al, Dur ile bekle.","21'i geçersen kaybedersin.","Kasa 17'ye kadar kart çeker.","5 elde kasadan çok el kazanırsan kazanırsın."]),
  ("karakaro","Kara Karo","⬛",("#334155","#0ea5e9"),"refleks","Siyah karolara en hızlı şekilde bas. 40 karoyu bitir.",["Sadece en alttaki siyah karoya dokun.","Yanlış yere basarsan biter.","Klavyede D F J K tuşları da çalışır.","Ne kadar hızlıysan o kadar çok yıldız."]),
  ("kus","Zırva Kuşu","🐦",("#38bdf8","#22c55e"),"refleks","Boruların arasından geç, 15 boruyu aş.",["Ekrana dokun veya boşluk tuşuna bas: kuş zıplar.","Borulara ve zemine çarpma.","15 boru geçersen kazanırsın."]),
@@ -75,6 +75,12 @@ _N4 = [
  ("tank","Tank Savaşı","🪖",("#15803d","#b45309"),"refleks","Üssünü koru, düşman tanklarını yok et.",["Ok tuşları/WASD ile sür, boşluk ile ateş et. Ekran düğmeleri de var.","Tuğla duvarlar kırılır, çelik duvarlar kırılmaz.","Alttaki 🏰 üssün yıkılırsa ya da 3 canın biterse kaybedersin.","5 düşman tankını da yok et."]),
 ]
 for s,t,e,g,c,d,r in _N4:
+    GAMES[s] = dict(title=t, emoji=e, grad=g, desc=d, rules=r, cat=c)
+_N5 = [
+ ("noktaci","Noktacı","🟡",("#facc15","#7c3aed"),"refleks","Labirentteki tüm noktaları ye, hayaletlerden kaç.",["Ok tuşları/WASD, kaydırma veya ekran düğmeleriyle yön ver.","Tüm noktaları yersen kazanırsın.","Büyük beyaz noktayı yersen hayaletler korkar, onları yiyebilirsin.","3 canın var, hayalete yakalanırsan bir can gider."]),
+ ("uzay","Uzay Savunması","🚀",("#1e3a8a","#7c3aed"),"refleks","Uzaylı istilacıları indirmeden vur.",["◀ ▶ veya ok tuşlarıyla gemiyi sür, boşluk/Ateş ile vur. Ekrana sürükleyip dokunarak da oynanır.","Yeşil kalkanlar seni korur ama vurulunca kırılır.","İstilacılar sana ulaşırsa ya da 3 canın biterse kaybedersin.","40 istilacıyı da vurursan kazanırsın."]),
+]
+for s,t,e,g,c,d,r in _N5:
     GAMES[s] = dict(title=t, emoji=e, grad=g, desc=d, rules=r, cat=c)
 for _s in ("kelime","kodkir","hedef24","kaydir","hafiza","emoji"):
     GAMES[_s].setdefault("cat", {"kelime":"kelime","kodkir":"mantik","hedef24":"sayi","kaydir":"mantik","hafiza":"refleks","emoji":"mantik"}[_s])

diff --git a/README.md b/README.md
@@ -58,3 +58,8 @@ Test için tarayıcı konsolunda `window.__pzctx.auto()` oyunu otomatik bitirir.
 - **Haftalık Lig:** merkez sayfasında pazartesi-pazar bulmaca sayacı; Bronz 8 / Gümüş 20 / Altın 40 / Elmas 70 bulmaca. Yeni rozet: Altın Lig.
 - **Admin → Passaparola ek soruları:** `HARF|mod|ipucu|CEVAP` satırlarıyla soru ekle (`/api/pp-extra` ile oyuna gelir, kolay/normal/zor modlarına karışır).
 - **5 yeni oyun (toplam 43):** Satranç (3 zorluk, rok ve en passant yok), Mancala (3 zorluk), Zırva Zuma, Bomba Adam (Bomberman), Tank Savaşı (`static/puzzles6.js`).
+
+### v6.5
+- **Yeni oyunlar (toplam 45):** Noktacı (Pac-Man tarzı) ve Uzay Savunması (Space Invaders tarzı) — `static/puzzles7.js`.
+- **2 Oyuncu modu:** Dört Gelsin ve Reversi artık aynı cihazda iki kişi oynanabilir (başlangıçta mod seçilir).
+- **Arka plan müziği:** oyun sayfasında 🎶 düğmesi, oyuna göre farklı tonda sakin bir müzik üretir (WebAudio, dosya yok). Tercih tarayıcıda saklanır, ses kapalıysa çalmaz.
